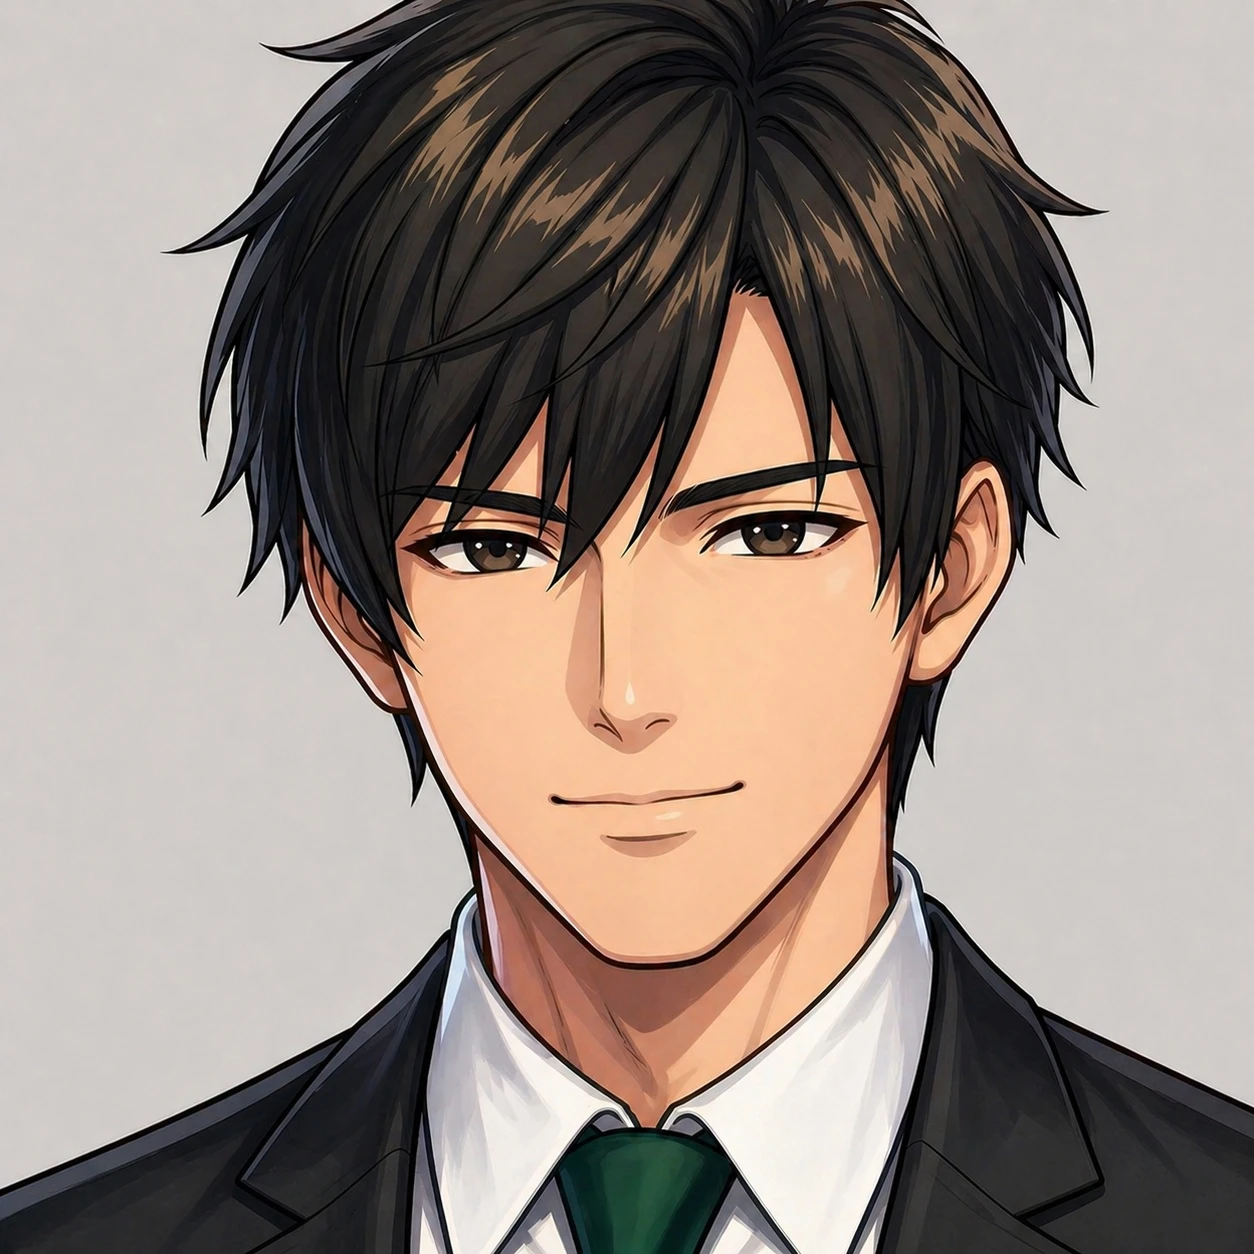
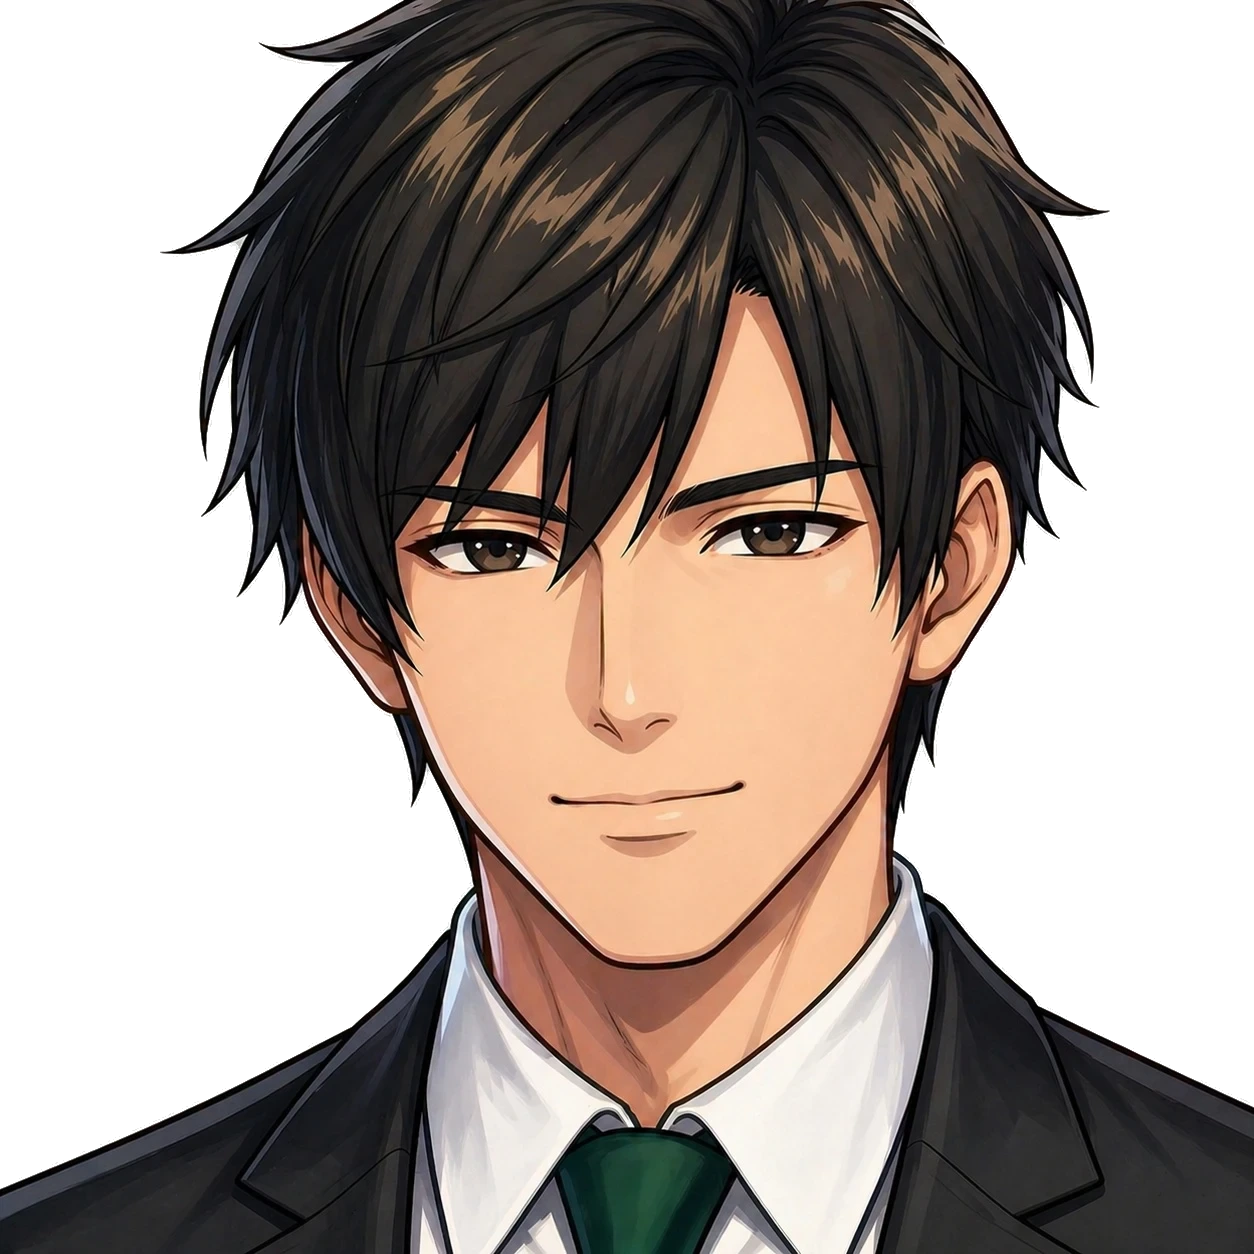
주인공 기본 얼굴 배경 제거, 이수아 설득 단계, 그림 보관함 새로 받기
- 남주·여주 기본 얼굴(hero-m, hero-f) 배경을 지워 투명하게
- 여주 2장 추궁: 공판 검사 말은 필수 증거에서 빼고, 휴대폰 뒤 설득 단계에서
  아버지 영수증·수첩 또는 공판 검사와 나눈 말 중 하나만 내면 자백
- 그림 보관함을 truth-img-3으로 바꿔 휴대폰에 남은 새 법정 얼굴 대신 예전 얼굴을 새로 받게 함

diff --git a/sw.js b/sw.js
@@ -2,8 +2,8 @@
 // 앱(화면 파일)은 배포할 때마다 새 판으로 바꾸고, 그림(assets/)은 버전과 상관없는 따로 된 저장소에 둔다.
 // 그래서 배포해도 이미 받은 그림은 다시 받지 않는다. 그림은 저장해 둔 것을 바로 보여 주고, 뒤에서 바뀌었는지만 확인한다.
 // 같은 이름의 그림을 다시 그려 바꿨을 때도 다음 실행부터 새 그림이 보인다(뒤에서 확인한 결과).
-const CACHE = "truth-v1795450000000";
-const IMG = "truth-img-2";
+const CACHE = "truth-v1795460000000";
+const IMG = "truth-img-3";
 const PRECACHE = ["./","./index.html","./story.html","./manifest.webmanifest","./icon-192.png","./icon-512.png","./apple-touch-icon.png","./assets/court-2.webp","./assets/end-close-f.jpg","./assets/end-close-m.jpg","./assets/end-top-f.jpg","./assets/end-top-m.jpg","./assets/frame-choice.png","./assets/frame-modal.webp","./assets/hero-f.webp","./assets/hero-m.webp","./assets/judge-close.webp","./assets/judge.webp","./assets/office-0-f.jpg","./assets/office-0-m.jpg","./assets/office-1-f.jpg","./assets/office-1-m.jpg","./assets/office-2-f.jpg","./assets/office-2-m.jpg","./assets/office-3-f.jpg","./assets/office-3-m.jpg","./assets/opp.webp","./assets/pros.webp","./assets/stamp-lose.png","./assets/stamp-win.png","./assets/title.jpg","./assets/cut/f-c1.webp","./assets/cut/f-c2.webp","./assets/cut/f-c3.webp","./assets/cut/f-c4.webp","./assets/cut/f-c5.webp","./assets/cut/f-c6.webp","./assets/cut/f-c7.webp","./assets/cut/f-c8.webp","./assets/cut/f-chef.webp","./assets/cut/f-exec.webp","./assets/cut/f-pd.webp","./assets/cut/f-ptf.webp","./assets/cut/f-ptm.webp","./assets/cut/f-pw.webp","./assets/cut/f-rep.webp","./assets/cut/f-vic.webp","./assets/cut/m01.webp","./assets/cut/m02.webp","./assets/cut/m03.webp","./assets/cut/m04.webp","./assets/cut/m05.webp","./assets/cut/m06.webp","./assets/cut/m07.webp","./assets/cut/m08.webp","./assets/cut/m09.webp","./assets/cut/m10.webp","./assets/cut/m11.webp","./assets/cut/m12.webp","./assets/cut/m13.webp","./assets/cut/m14.webp","./assets/cut/m15.webp","./assets/cut/m16.webp","./assets/cut/m18.webp","./assets/cut/m19.webp","./assets/cut/m20.webp","./assets/cut/m21.webp","./assets/cut/m22.webp","./assets/cut/m23.webp","./assets/cut/m24.webp","./assets/cut/m25.webp","./assets/cut/m26.webp","./assets/cut/m27.webp","./assets/cut/m28.webp","./assets/cut/m29.webp","./assets/cut/m30.webp","./assets/cut/n20f1.webp","./assets/cut/n20f2.webp","./assets/cut/n20f3.webp","./assets/cut/n20f4.webp","./assets/cut/n20m1.webp","./assets/cut/n20m2.webp","./assets/cut/n20m3.webp","./assets/cut/n20m4.webp","./assets/cut/n30f1.webp","./assets/cut/n30f2.webp","./assets/cut/n30f3.webp","./assets/cut/n30f4.webp","./assets/cut/n30m1.webp","./assets/cut/n30m2.webp","./assets/cut/n30m3.webp","./assets/cut/n30m4.webp","./assets/cut/n40f1.webp","./assets/cut/n40f2.webp","./assets/cut/n40f3.webp","./assets/cut/n40f4.webp","./assets/cut/n40m1.webp","./assets/cut/n40m2.webp","./assets/cut/n40m3.webp","./assets/cut/n40m4.webp","./assets/cut/n50f1.webp","./assets/cut/n50f2.webp","./assets/cut/n50f3.webp","./assets/cut/n50f4.webp","./assets/cut/n50m1.webp","./assets/cut/n50m2.webp","./assets/cut/n50m3.webp","./assets/cut/n50m4.webp","./assets/cut/n60f1.webp","./assets/cut/n60f2.webp","./assets/cut/n60f3.webp","./assets/cut/n60f4.webp","./assets/cut/n60m1.webp","./assets/cut/n60m2.webp","./assets/cut/n60m3.webp","./assets/cut/n60m4.webp","./assets/expr/hero-f_confident.webp","./assets/expr/hero-f_flustered.webp","./assets/expr/hero-f_neutral.webp","./assets/expr/hero-f_relieved.webp","./assets/expr/hero-f_serious.webp","./assets/expr/hero-m_confident.webp","./assets/expr/hero-m_flustered.webp","./assets/expr/hero-m_neutral.webp","./assets/expr/hero-m_relieved.webp","./assets/expr/hero-m_serious.webp","./assets/expr/opponent_confident.webp","./assets/expr/opponent_flustered.webp","./assets/expr/opponent_neutral.webp","./assets/expr/opponent_serious.webp","./assets/expr/prosecutor_confident.webp","./assets/expr/prosecutor_flustered.webp","./assets/expr/prosecutor_neutral.webp","./assets/expr/prosecutor_serious.webp","./assets/ops-end/grade-s-m.jpg","./assets/ops-end/grade-s-f.jpg","./assets/ops-end/grade-a-m.jpg","./assets/ops-end/grade-a-f.jpg","./assets/ops-end/grade-b-m.jpg","./assets/ops-end/grade-b-f.jpg","./assets/ops-end/grade-c-m.jpg","./assets/ops-end/grade-c-f.jpg","./assets/ops-end/grade-d-m.jpg","./assets/ops-end/grade-d-f.jpg","./assets/ops-end/newspaper.jpg","./assets/op/o1-f.webp","./assets/op/o1-m.webp","./assets/op/o2-f.webp","./assets/op/o2-m.webp","./assets/op/o3.webp","./assets/op/s1.webp","./assets/op/s2.webp","./assets/op/s3.webp","./assets/staff/investigator_female_20s.webp","./assets/staff/investigator_male_30s.webp","./assets/staff/investigator_male_40s.webp","./assets/staff/lawyer_female_20s.webp","./assets/staff/lawyer_female_30s.webp","./assets/staff/lawyer_female_30s_02.webp","./assets/staff/lawyer_female_30s_03.webp","./assets/staff/lawyer_female_30s_04.webp","./assets/staff/lawyer_male_20s_01.webp","./assets/staff/lawyer_male_30s.webp","./assets/staff/lawyer_male_30s_02.webp","./assets/staff/lawyer_male_30s_03.webp","./assets/staff/lawyer_male_30s_04.webp","./assets/staff/manager_female_40s.webp","./assets/staff/manager_male_30s.webp","./assets/staff/manager_male_50s.webp","./assets/staff/secretary_female_20s_01.webp","./assets/staff/secretary_female_20s_02.webp","./assets/staff/secretary_male_30s.webp"];
 const isAsset = u => /\/assets\//.test(new URL(u, self.location.href).pathname);
 self.addEventListener("install", e => {
